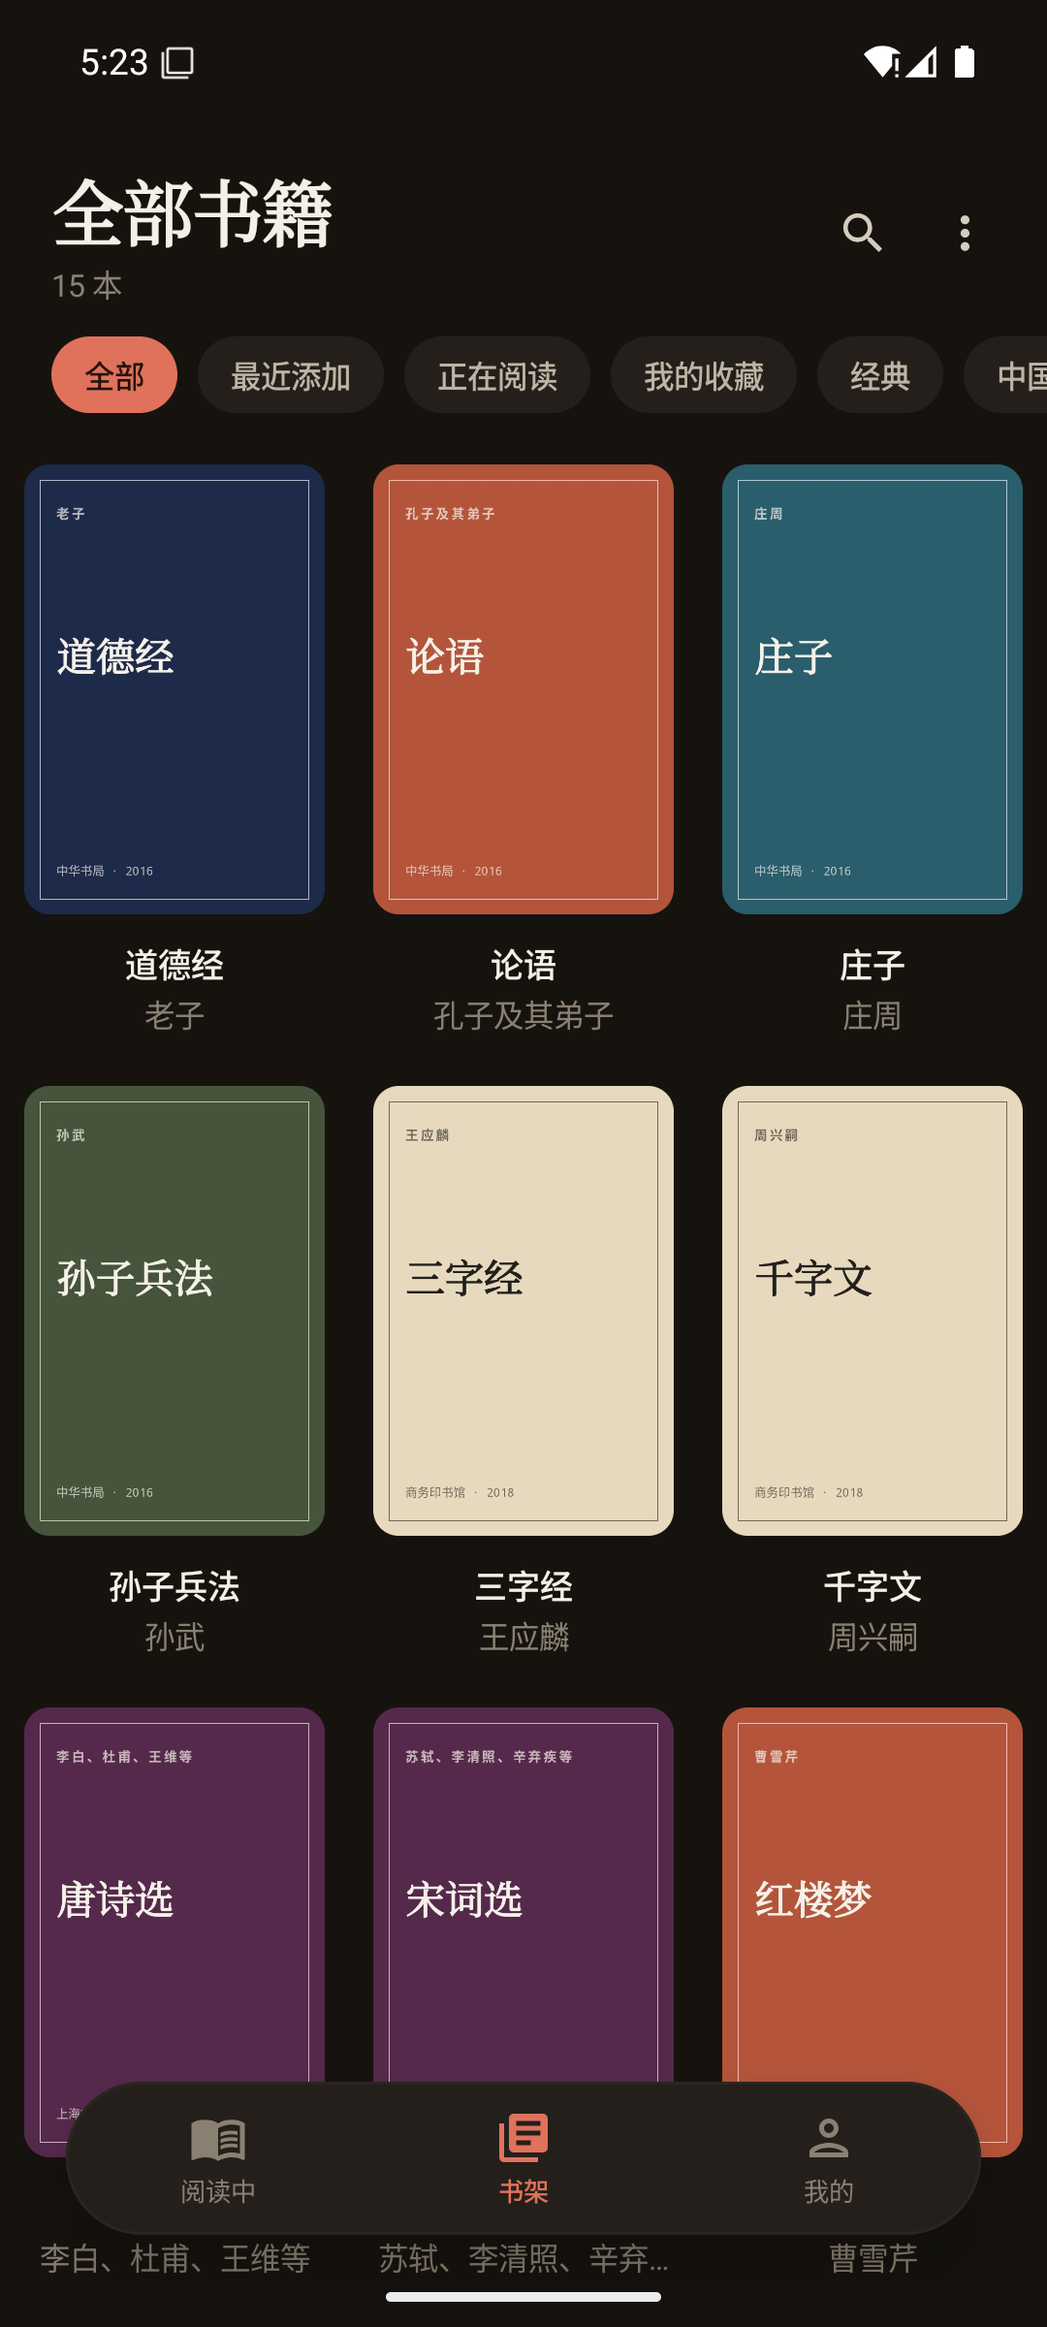
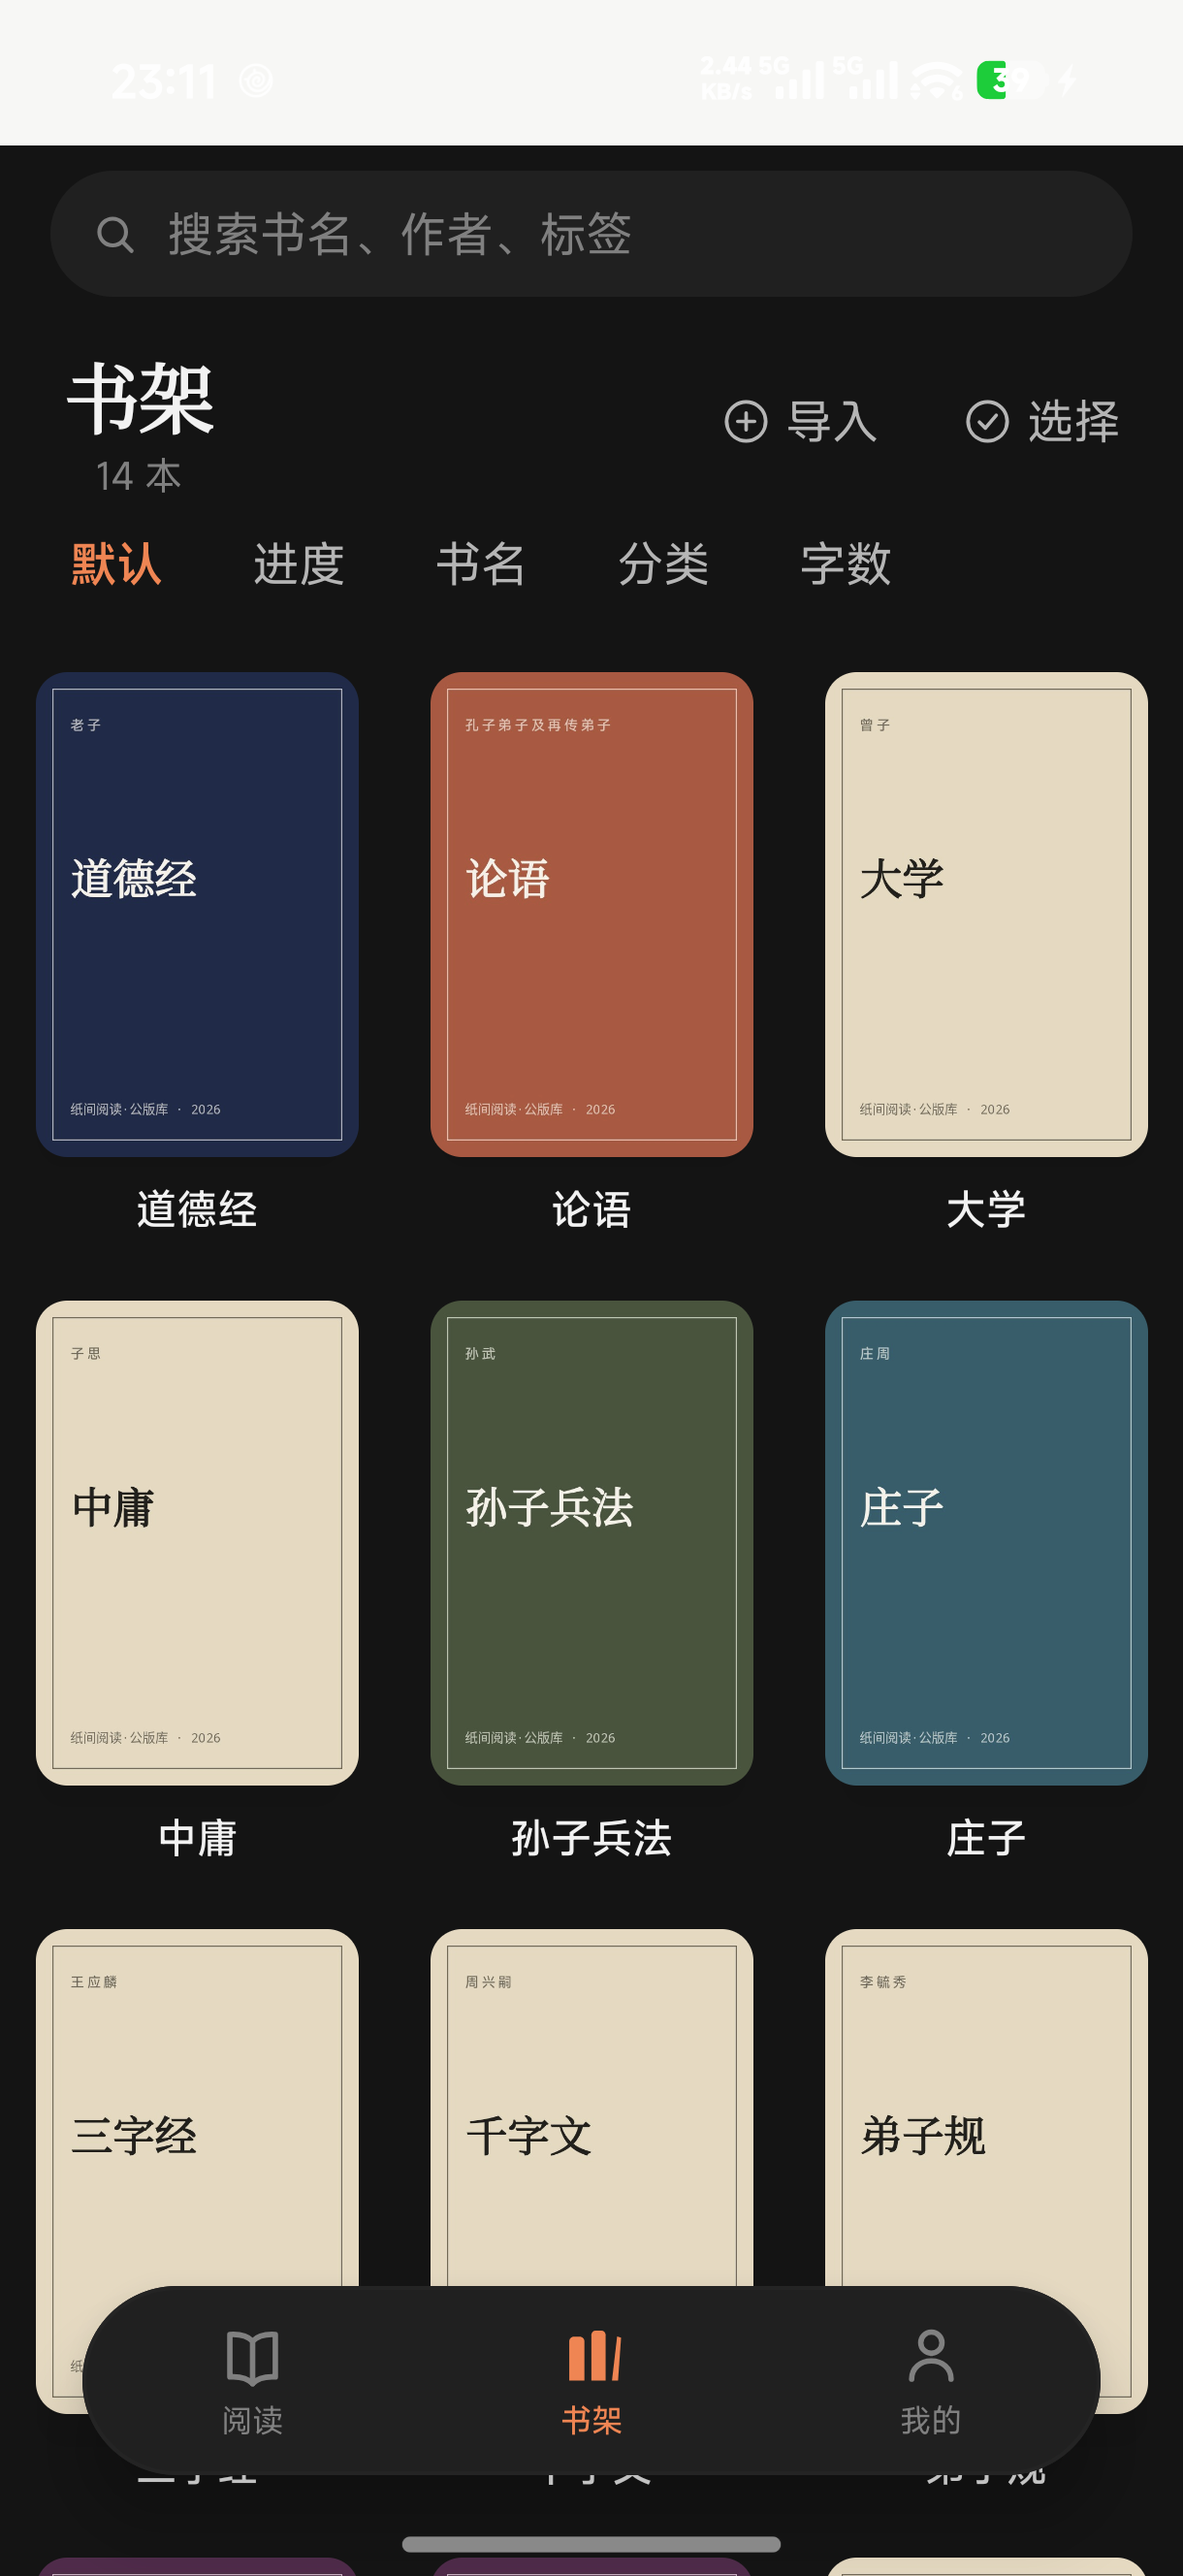
README 同步 1.6.8：内置书改为 14 部全文典籍，补扫描导入/在读管理，截图全部重拍

diff --git a/README.md b/README.md
@@ -4,17 +4,17 @@
 
 > Reading between the pages.
 
-一款安静、快速的安卓电子书阅读器。读写 **calibre 书库**（`metadata.db`），开箱即带一柜公版中文典籍，支持**链接导入**与**本机导入**。
+一款安静、快速的安卓电子书阅读器。读写 **calibre 书库**（`metadata.db`），开箱即带一柜完整公版中文典籍，支持**扫描文件夹**、**本机导入**与**链接导入**。
 
-A calm, fast Android e-book reader that reads and writes **calibre libraries**, ships with Chinese public-domain classics, and imports books from a link or from the device.
+A calm, fast Android e-book reader that reads and writes **calibre libraries**, ships with full texts of Chinese public-domain classics, and imports books by scanning a folder, from the device, or from a link.
 
 | 书架 | 详情 | 阅读 |
 | --- | --- | --- |
 | ![书架](docs/screenshots/01-library.png) | ![详情](docs/screenshots/02-detail.png) | ![阅读](docs/screenshots/03-reader.png) |
 
-| 本机导入 | 阅读 | 我的 |
+| 本机导入 | 阅读页 | 我的 |
 | --- | --- | --- |
-| ![本机导入](docs/screenshots/10-local-import.png) | ![阅读](docs/screenshots/05-reading-now.png) | ![我的](docs/screenshots/09-mine.png) |
+| ![本机导入](docs/screenshots/10-local-import.png) | ![阅读页](docs/screenshots/05-reading-now.png) | ![我的](docs/screenshots/09-mine.png) |
 
 | 深色主题 |
 | --- |
@@ -23,18 +23,21 @@ A calm, fast Android e-book reader that reads and writes **calibre libraries**, 
 ## 特性
 
 - **calibre 兼容的书库**：`metadata.db` 使用 calibre 的 schema（user_version 28），一本书一个文件夹，封面为 `cover.jpg`。同一个文件夹既能在 calibre 打开，也能在本应用打开——没有私有格式，没有锁定。
-- **三种取书方式**
-  - **内置公版典籍**：《道德经》《论语》《庄子》《孙子兵法》《三字经》《千字文》《唐诗选》《宋词选》《红楼梦》《三国演义》《水浒传》《西游记》《古文观止选》《山海经选》《世说新语选》——真实节选，无需联网；
-  - **链接导入**：粘贴 EPUB / PDF / TXT 直链，下载即入库（自动读取书名、作者、封面）；
-  - **本机导入**：应用内文件浏览，SAF 一次授权，批量导入 EPUB、PDF、TXT、MOBI、HTML、MD、FB2（自动读取书名、作者、封面）。
+- **四种取书方式**
+  - **内置公版典籍**：14 部完整收录——《道德经》（81 章）、《论语》（20 篇）、《大学》《中庸》《孙子兵法》（13 篇）、《庄子》内篇、《三字经》《千字文》《弟子规》，以及《唐诗选》《宋词选》《古文观止选》《山海经选》《世说新语选》，无需联网；
+  - **扫描文件夹**：手动把书放进设备的 `MyBooks` 文件夹，一键扫描入库；
+  - **本机导入**：应用内文件浏览，SAF 一次授权，批量导入 EPUB、PDF、TXT、MOBI、HTML、MD、FB2（自动读取书名、作者、封面）；
+  - **链接导入**：粘贴 EPUB / PDF / TXT 直链，下载即入库（自动读取书名、作者、封面）。
 - **阅读器**：EPUB / PDF / TXT / MOBI / HTML / MD / FB2 渲染、全文查找、自动翻页、字号缩放、进度记忆（「阅读」页显示继续阅读）。
+- **在读管理**：「正在阅读」「已读完」独立页面；已读完的书点开即从头重读，进度重新计算，并累计**阅读次数**。
+- **书架整理**：默认 / 进度 / 书名（拼音序）/ 分类 / 字数五种排序；分类页按 标签 → 系列 → 作者 分级归类；删除书籍时可选是否同时删除本地文件。
 - **完整元数据**：书名、作者、丛书、出版社、日期、语言、ISBN、标签、评分、简介，均可编辑；封面可更换。
 - **界面语言**：默认中文，内置 English；「我的」页可切换或跟随系统。
 - **深浅两套主题**：纸感浅色（默认）与暖墨深色。
 
 ## 设计
 
-纸、墨、一点朱砂。界面语言取自 Apple Books 的节奏：大标题、大封面、圆角与留白；中文标题用宋体，正文用衬线体，界面文字用无衬线体。底部是 iOS 式**悬浮 Dock**：圆角胶囊、软阴影、悬浮于屏幕底缘之上，选中变实心朱砂图标，顺序为 **阅读 / 书架 / 我的**。导入（链接导入、本机导入）与设置都收在「我的」里。
+纸、墨、一点朱砂。界面语言取自 Apple Books 的节奏：大标题、大封面、圆角与留白；中文标题用宋体，正文用衬线体，界面文字用无衬线体。底部是 iOS 式**悬浮 Dock**：圆角胶囊、软阴影、悬浮于屏幕底缘之上，选中变实心朱砂图标，顺序为 **阅读 / 书架 / 我的**。导入（扫描文件夹、本机导入、链接导入）收在书架的「⊕ 导入」里，设置收在「我的」里。
 
 ## 构建
 
@@ -74,7 +77,7 @@ keyPassword=***
 
 ## 内置样书声明
 
-内置的 15 部典籍（《道德经》《论语》《红楼梦》等）均为**公有领域**（public domain）文本的真实节选，随应用离线提供，仅供阅读与学习。如发现任何版权方面的问题，请提 Issue，我们会尽快处理。
+内置的 14 部典籍（《道德经》《论语》《孙子兵法》等）均为**公有领域**（public domain）文本：《道德经》《论语》《大学》《中庸》《孙子兵法》《庄子》内篇为完整全文，《三字经》《千字文》《弟子规》为完整蒙学文本，《唐诗选》《宋词选》《古文观止选》《山海经选》《世说新语选》为精选选本。文本据中文维基文库校订并统一转简体，随应用离线提供，仅供阅读与学习。如发现任何版权方面的问题，请提 Issue，我们会尽快处理。
 
 ## 代码结构
 
@@ -102,7 +105,7 @@ app/src/main/java/com/zhijian/reading/
     ├── LibraryViewModel.kt
     ├── theme/             # 纸感设计令牌
     ├── components/        # 封面、封面墙、列表行、控件
-    └── screens/           # 阅读 / 书架 / 我的 / 本机导入 / 详情 / 编辑 / 阅读器 / 浏览
+    └── screens/           # 阅读 / 书架 / 正在阅读·已读完 / 我的 / 本机导入 / 详情 / 编辑 / 阅读器 / 浏览
 ```
 
 ## 已知限制
